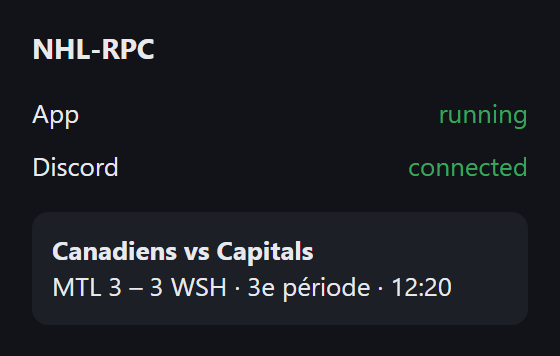
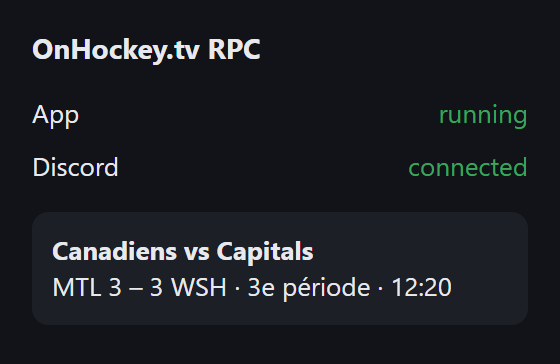
Rename project to OnHockey.tv RPC
The Discord activity card is now titled "OnHockey.tv RPC" (new
activityName option) while the status line keeps showing the teams.
Renames the extension, scripts, log file, startup shortcut (the old
NHL-RPC shortcut is removed) and README, and refreshes the screenshots.

diff --git a/src/index.js b/src/index.js
@@ -1,4 +1,4 @@
-// NHL-RPC : reçoit de l'extension le match regardé sur onhockey.tv et l'affiche dans Discord.
+// OnHockey.tv RPC : reçoit de l'extension le match regardé sur onhockey.tv et l'affiche dans Discord.
 const fs = require('fs');
 const path = require('path');
 const http = require('http');
@@ -7,7 +7,7 @@ const { Presence } = require('./discord');
 const nhl = require('./nhl');
 const { getMatchupImageUrl } = require('./matchup-image');
 
-const LOG_FILE = path.join(__dirname, '..', 'nhl-rpc.log');
+const LOG_FILE = path.join(__dirname, '..', 'onhockey-tv-rpc.log');
 const write = (level, msg) => {
   const line = `${new Date().toLocaleString('fr-CA')} [${level}] ${msg}`;
   (level === 'ERR' ? console.error : console.log)(line);
@@ -109,6 +109,8 @@ async function tick() {
     }
     activity = activity || genericActivity(s);
     if (config.showElapsed) activity.startTimestamp = s.startedAt;
+    // Nom affiché dans l'en-tête de la carte (« Regarde … ») ; la ligne de statut garde le nom des équipes.
+    if (config.activityName) activity.name = config.activityName;
     s.lastActivity = activity;
     presence.set(activity);
   } finally {
@@ -137,7 +139,7 @@ const server = http.createServer(async (req, res) => {
     res.end(JSON.stringify(obj));
   };
   // L'en-tête personnalisé empêche une page web quelconque de piloter la présence (pré-vérification CORS refusée).
-  if (req.method !== 'GET' && req.headers['x-nhl-rpc'] !== '1') return send(403, { error: 'forbidden' });
+  if (req.method !== 'GET' && req.headers['x-onhockey-rpc'] !== '1') return send(403, { error: 'forbidden' });
 
   try {
     if (req.method === 'GET' && req.url === '/status') {
@@ -177,13 +179,13 @@ const server = http.createServer(async (req, res) => {
 });
 
 server.on('error', (err) => {
-  if (err.code === 'EADDRINUSE') log.error(`Le port ${config.port} est déjà utilisé (NHL-RPC tourne déjà ?)`);
+  if (err.code === 'EADDRINUSE') log.error(`Le port ${config.port} est déjà utilisé (OnHockey.tv RPC tourne déjà ?)`);
   else log.error(err.message);
   process.exit(1);
 });
 
 server.listen(config.port, '127.0.0.1', () => {
-  log.info(`NHL-RPC prêt sur http://127.0.0.1:${config.port}`);
+  log.info(`OnHockey.tv RPC prêt sur http://127.0.0.1:${config.port}`);
 });
 
 setInterval(tick, config.pollSeconds * 1000);

diff --git a/extension/popup.js b/extension/popup.js
@@ -9,7 +9,7 @@ fetch('http://127.0.0.1:47823/status')
   .then((s) => {
     set('app', 'running', true);
     set('discord', s.discord ? 'connected' : 'not connected', s.discord);
-    if (!s.discord) $('hint').textContent = 'Open the Discord desktop app. NHL-RPC reconnects within 15 s.';
+    if (!s.discord) $('hint').textContent = 'Open the Discord desktop app. OnHockey.tv RPC reconnects within 15 s.';
     const a = s.watching?.activity;
     if (a) {
       $('game').className = 'game';
@@ -22,5 +22,5 @@ fetch('http://127.0.0.1:47823/status')
   .catch(() => {
     set('app', 'not found', false);
     set('discord', '—', false);
-    $('hint').textContent = 'NHL-RPC is not running. Run start.bat in the NHL-RPC folder.';
+    $('hint').textContent = 'OnHockey.tv RPC is not running. Run start.bat in the OnHockey.tv RPC folder.';
   });

diff --git a/extension/background.js b/extension/background.js
@@ -1,15 +1,15 @@
-// Relaie les événements de l'onglet onhockey.tv vers l'application locale NHL-RPC.
+// Relaie les événements de l'onglet onhockey.tv vers l'application locale OnHockey.tv RPC.
 const API = 'http://127.0.0.1:47823';
 
 async function post(path, body) {
   try {
     await fetch(API + path, {
       method: 'POST',
-      headers: { 'Content-Type': 'application/json', 'X-NHL-RPC': '1' },
+      headers: { 'Content-Type': 'application/json', 'X-OnHockey-RPC': '1' },
       body: JSON.stringify(body),
     });
   } catch {
-    // NHL-RPC n'est pas lancé : rien à faire.
+    // OnHockey.tv RPC n'est pas lancé : rien à faire.
   }
 }
 

diff --git a/src/nhl.js b/src/nhl.js
@@ -4,7 +4,7 @@ const { BY_ABBREV, matchScore } = require('./teams');
 const API = 'https://api-web.nhle.com/v1';
 
 async function getJson(url) {
-  const res = await fetch(url, { headers: { 'User-Agent': 'NHL-RPC' } });
+  const res = await fetch(url, { headers: { 'User-Agent': 'OnHockey.tv-RPC' } });
   if (!res.ok) throw new Error(`NHL API HTTP ${res.status} (${url})`);
   return res.json();
 }

diff --git a/extension/popup.html b/extension/popup.html
@@ -16,7 +16,7 @@
 </head>
 <body>
 <div class="wrap">
-  <h1>NHL-RPC</h1>
+  <h1>OnHockey.tv RPC</h1>
   <div class="row"><span>App</span><span id="app" class="muted">…</span></div>
   <div class="row"><span>Discord</span><span id="discord" class="muted">…</span></div>
   <div id="game" class="game muted">No game detected. Click a stream link on onhockey.tv.</div>
